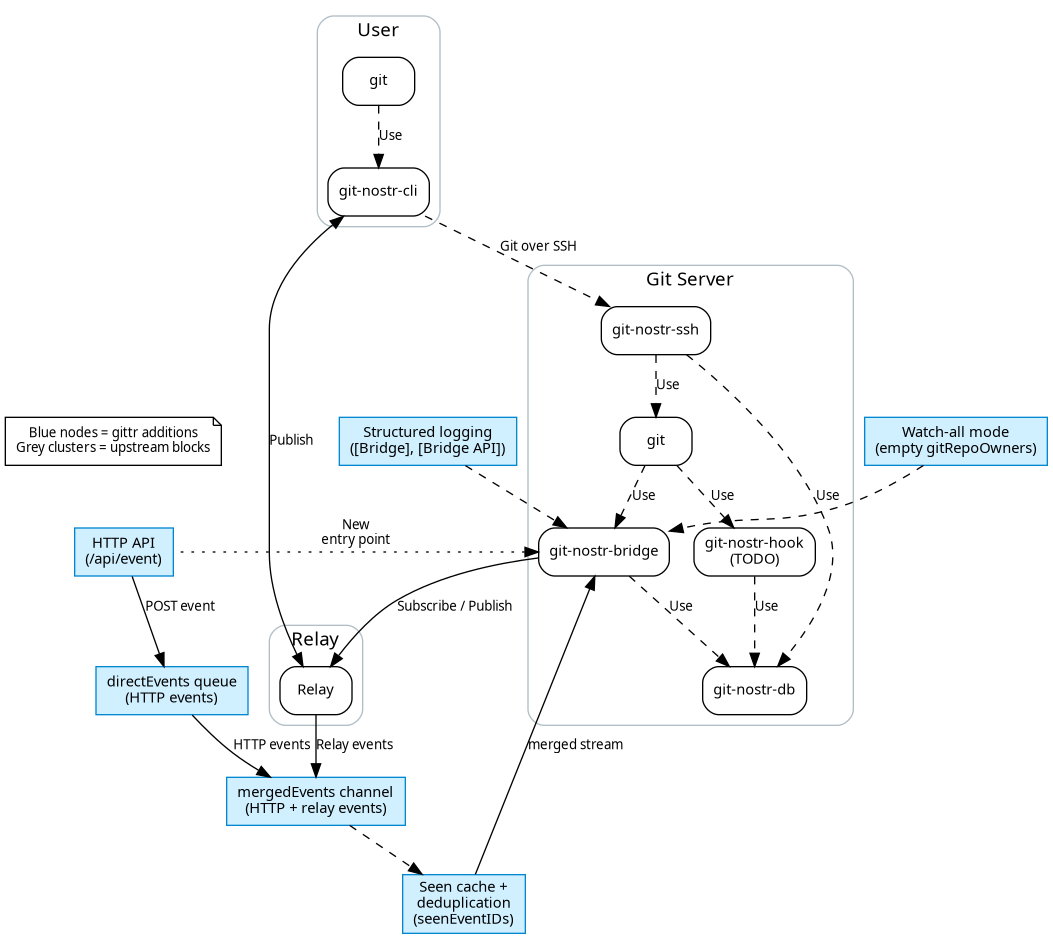
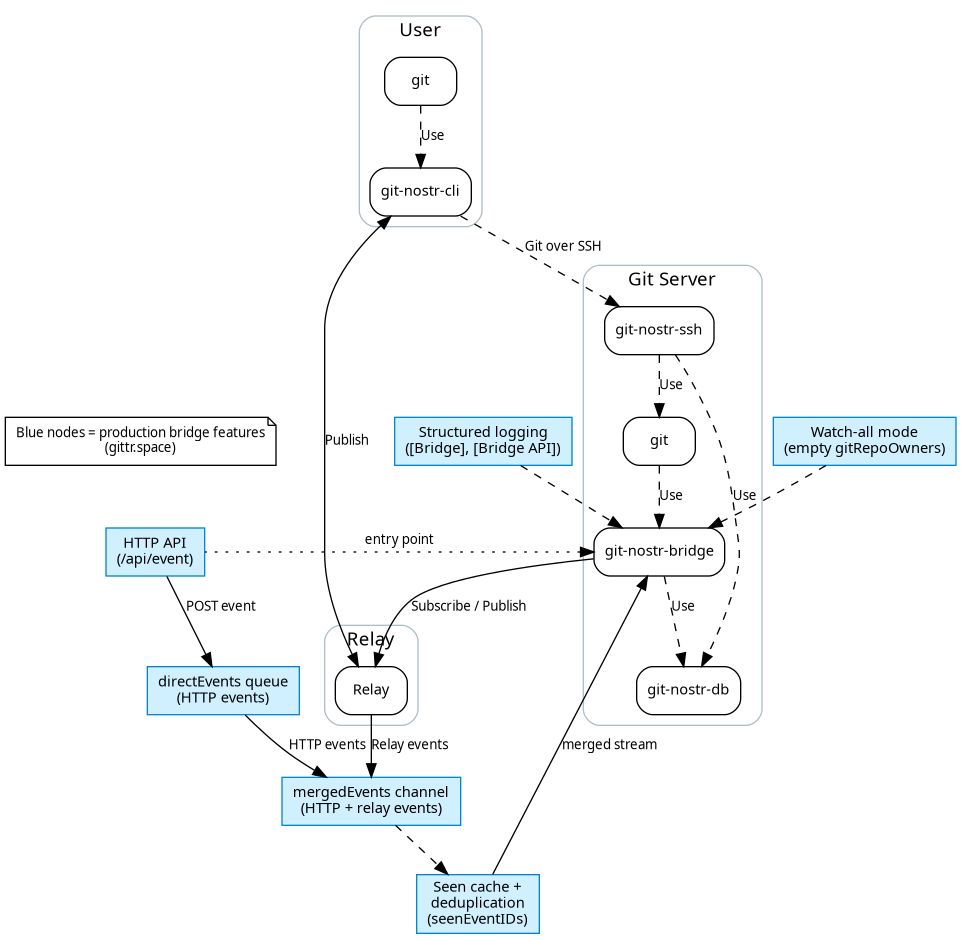
docs: replace hook diagram with current infrastructure overview
New architecture.dot/PNG and ARCHITECTURE.md cover bridge, SSH, gn,
gittr UI, and git-remote-nostr; regenerate enhancement PNGs without hook.

Changed region(s): [[0.0, 0.0, 0.999, 1.0], [0.3122, 0.5559, 0.437, 0.5868], [0.281, 0.2471, 0.3122, 0.278]]

diff --git a/README.md b/README.md
@@ -27,7 +27,7 @@ Use **gitnostr** when you need a **real git server** driven by Nostr—not when 
 | **Integrate into your own client** | Relays stay the source of truth for discovery; the bridge gives **on-disk bare repos**, optional HTTP **`/api/event`**, and SSH git. Co-host **[gittr](https://gittr.space/arbadacarbaYK/gittr?branch=main)** for file trees and forge APIs — [docs/file-fetch-flow.md](docs/file-fetch-flow.md). |
 | **Backup & mirror on your own metal** | Bare repos under `repositoryDir`. Point relays at your instance; use **watch-all** mode (`gitRepoOwners: []`) to mirror every repo you see, or limit to your pubkey(s). `clone` / `source` tags on events pull from GitHub, GitLab, Codeberg, GRASP HTTPS, etc. |
 | **Leave centralized git hosting** | Permissions and SSH keys are **Nostr events**; reinstall the bridge on a new VPS and reconnect—same as moving off a censored Git host, without changing day-to-day `git` habits. |
-| **Teams that want normal git** | Contributors use **`git clone git@your-host:npub/repo.git`** (or `git-nostr@`). No **ngit** binary required; works with existing CI, hooks, and IDEs. |
+| **Teams that want normal git** | Contributors use **`git clone git@your-host:npub/repo.git`** (or `git-nostr@`). No **ngit** binary required; works with existing CI and IDEs. |
 | **Public git mirror for the network** | Run a community bridge that mirrors NIP-34 announcements; others clone from your host while metadata stays on relays. |
 | **Monetize pushes** | Per-repo **`push_cost_sats`**: Lightning invoice + single-use push grant in SQLite (SSH prints BOLT11 when needed). |
 | **Shell-first operators** | Publish repos, keys, and ACL with **`git-nostr-cli` (`gn`)**; the bridge applies changes from relays (and optional HTTP). |
@@ -59,6 +59,7 @@ Both use **NIP-34** on relays; different **codebases** and default git workflow.
 
 ## Documentation
 
+- **[Architecture](docs/ARCHITECTURE.md)** — components, relays, disk, and how **gittr UI**, **`gn`**, **SSH git**, and **`git-remote-nostr`** connect
 - **[SSH & Git Access Guide](SSH_GIT_GUIDE.md)** - Complete guide for using SSH with git-nostr-bridge (cloning, pushing, pulling, permissions)
 - **[Bridge enhancements](docs/gittr-enhancements.md)** - HTTP API, watch-all, deduplication (gittr production)
 - **[Standalone bridge setup](docs/STANDALONE_BRIDGE_SETUP.md)** - Host the bridge on your own server
@@ -71,37 +72,24 @@ Repo config, SSH keys, and permissions live on **Nostr**; the bridge materialize
 **With [gittr](https://gittr.space/arbadacarbaYK/gittr?branch=main):** **issues, pull requests, commits, zaps, bounties, Pages, and `/apps`** on the same relays—this repo is **`git.gittr.space`**, gittr is the web forge.
 
 
-# How
+# How it works
 
-![Architecture overview](git-nostr.png)
+![Infrastructure overview](git-nostr.png)  
+*Regenerate: `dot -Tpng architecture.dot -o git-nostr.png`*
 
-**git-nostr-cli** publishes repo, permission, and SSH-key events to **Relays**. **git-nostr-bridge** subscribes, updates **git-nostr-db**, mirrors **bare git** repos, and maintains SSH `authorized_keys`. Contributors use normal **git** over **SSH** (**git-nostr-ssh**). HTTP **`/api/event`**, watch-all mode, and deduplication: [docs/gittr-enhancements.md](docs/gittr-enhancements.md).
+Full breakdown (components + **gittr UI** / **`gn`** / **SSH git** / **`git-remote-nostr`**): **[docs/ARCHITECTURE.md](docs/ARCHITECTURE.md)**.
 
-## git-nostr-db
+| Piece | What it does |
+| --- | --- |
+| **Relays** | Repo announcements (**30617**), state (**30618**), SSH keys (**52**), permissions (**50**), legacy **51**. |
+| **`git-nostr-bridge`** | Subscribes (optional **`POST /api/event`**), updates **`git-nostr-db`**, mirrors **`repositoryDir`**, maintains **`authorized_keys`**. |
+| **`git-nostr-ssh`** | SSH git entry: ACL from SQLite; optional **`push_cost_sats`** paywall on push. |
+| **`gn` (`git-nostr-cli`)** | Publishes events to relays (no direct bridge socket). |
+| **gittr UI** | Forge on relays + reads the same bare repos for file/commits APIs; SSH keys via Settings or `gn`. |
 
-An sqlite DB is used to cache the latest version of the data needed to perform access control checks to avoid development downtime in case of a relay or the git-nostr-bridge being offline.
+**DO NOT RUN THE BRIDGE AS YOUR OWN USER — it manages a dedicated user’s `authorized_keys`.**
 
-### git-nostr-bridge
-
-Connects to a set of relays and:
-1. subscribes to the events needed to keep the git-nostr-db up to date
-2. creates git repositories as needed
-3. updates the ssh authorized_keys file
-
-**DO NOT RUN THE BRIDGE AS YOUR OWN USER YOU WILL LOSE YOUR AUTHORIZED_KEYS FILE**
-
-### git-nostr-ssh
-
-Configured as the command for a nostr users ssh-key in the authorized_keys file.
-Whenever a user tries to perform a git operation (push/pull) git-nostr-ssh will perform an access control check.
-Repository owners are always treated as `ADMIN` for their own repositories, even if a cached permission row is missing/stale.
-If a repository has a configured push paywall (`push_cost_sats > 0`), SSH write operations (`git-receive-pack`) also require a non-expired paid authorization grant in bridge SQLite. If a pending invoice already exists for the payer identity, SSH can print `pending invoice (BOLT11): ...` directly. Each successful push consumes one paid authorization.
-
-### git-nostr-cli (gn)
-
-Command line tool with similar options to the github cli that will publish the relevant events using your private key to the configured relays
-
-git-nostr-bridge will then react to these events and update the DB and create any git repos needed.
+Production bridge options (HTTP fast lane, watch-all, dedupe): [docs/gittr-enhancements.md](docs/gittr-enhancements.md).
 
 
 # Setup Instructions

diff --git a/docs/ARCHITECTURE.md b/docs/ARCHITECTURE.md
@@ -1,0 +1,71 @@
+# gitnostr infrastructure (what runs today)
+
+Nostr holds **discovery and policy** (repos, permissions, SSH keys). Your server holds **bare git** and enforces access. There is **no `git-nostr-hook`** in this codebase—`git push` / `pull` go through **`git-nostr-ssh`** and normal `git`.
+
+## Components on the server
+
+| Component | Role |
+| --- | --- |
+| **`git-nostr-bridge`** | Subscribes to relays (kinds **50**, **51**, **52**, **30617**, **30618**, …). Updates SQLite, creates/updates bare repos under `repositoryDir`, refreshes `authorized_keys` from kind **52**. Optional **`POST /api/event`** when `BRIDGE_HTTP_PORT` is set (fast path for signed events). |
+| **`git-nostr-db`** | SQLite cache of permissions, repo rows, SSH keys, push-paywall grants—so **`git-nostr-ssh`** can allow/deny when relays are slow or down. |
+| **`repositoryDir`** | Bare repos: `{pubkey}/{repo}.git`. Source of truth for bytes on disk. |
+| **`git-nostr-ssh`** | `sshd` forced command for `git-upload-pack` / `git-receive-pack`. Reads ACL (+ optional **`push_cost_sats`**) from SQLite. |
+| **`git`** | Standard git binaries invoked by `git-nostr-ssh`. |
+| **nginx / HTTPS** (optional) | Smart HTTP git in front of the same bare repos (`git clone https://git.your-host/...`). |
+
+With **[gittr](https://gittr.space/arbadacarbaYK/gittr?branch=main)** on the same host: the Next.js app sets **`GIT_NOSTR_BRIDGE_REPOS_DIR`** to the **same** `repositoryDir` for file trees, commits API, and import—no second copy of the repos.
+
+## How clients connect
+
+| Client | What you use | How it reaches the server |
+| --- | --- | --- |
+| **Web forge (gittr)** | Browser + NIP-07 (or nsec) | **Relays** for issues/PRs/repo events; **SSH/HTTPS** for `git push`/`pull`; **Next.js** routes read `repositoryDir` for Code/Commits tabs. Publish SSH keys in **Settings → SSH Keys** (kind **52**, same as `gn`). |
+| **CLI operator (`gn`)** | `git-nostr-cli` | Publishes kind **30617** (repo), **52** (SSH key), permission events to **relays** → bridge applies them. Then `git clone git@host:npub/repo.git`. |
+| **Normal git** | OpenSSH + `git` | `git@git.gittr.space:<npub>/repo.git` (or your host) → **`git-nostr-ssh`** → ACL check → `git` on bare repo. |
+| **`git-remote-nostr`** | [ngit-cli](https://github.com/DanConwayDev/ngit-cli) helper | `git clone nostr://<npub>/<repo>` when the repo is **mirrored on your bridge** (same bare repo as SSH). Interop transport, not a separate hook. |
+| **HTTPS git** | `git` + HTTPS remote | Clone/push against nginx-fronted bare repo (same disk as bridge). |
+
+**Publish path (all clients):** signed Nostr events → relays → bridge (and optionally **`POST /api/event`**) → SQLite + disk + `authorized_keys`.
+
+**Git bytes path:** `git` → SSH or HTTPS → **`git-nostr-ssh`** (or HTTP git) → bare repo on disk.
+
+## Diagram
+
+Rendered from [`architecture.dot`](../architecture.dot) as **`git-nostr.png`** in the repo root (regenerate with `dot -Tpng architecture.dot -o git-nostr.png`).
+
+```mermaid
+flowchart LR
+  subgraph relays["Nostr relays"]
+    R[Repo / key / ACL events]
+  end
+
+  subgraph server["Git server"]
+    B[git-nostr-bridge]
+    D[(git-nostr-db)]
+    V[(repositoryDir bare repos)]
+    S[git-nostr-ssh]
+    G[git]
+    B --> D
+    B --> V
+    S --> D
+    S --> G
+    G --> V
+  end
+
+  GN[gn CLI] -->|publish| R
+  UI[gittr UI] -->|publish + read APIs| R
+  UI -.->|same disk| V
+  B <-->|subscribe + optional POST /api/event| R
+  GIT[git SSH/HTTPS] --> S
+  NG[git-remote-nostr] -.->|if mirrored| V
+```
+
+## Production extras (gittr.space)
+
+HTTP **`/api/event`**, event deduplication, **watch-all** (`gitRepoOwners: []`): [gittr-enhancements.md](gittr-enhancements.md).
+
+## More detail
+
+- [SSH_GIT_GUIDE.md](../SSH_GIT_GUIDE.md) — clone URLs, keys, workflows  
+- [file-fetch-flow.md](file-fetch-flow.md) — bridge disk + gittr file APIs  
+- [STANDALONE_BRIDGE_SETUP.md](STANDALONE_BRIDGE_SETUP.md) — self-host the bridge  
